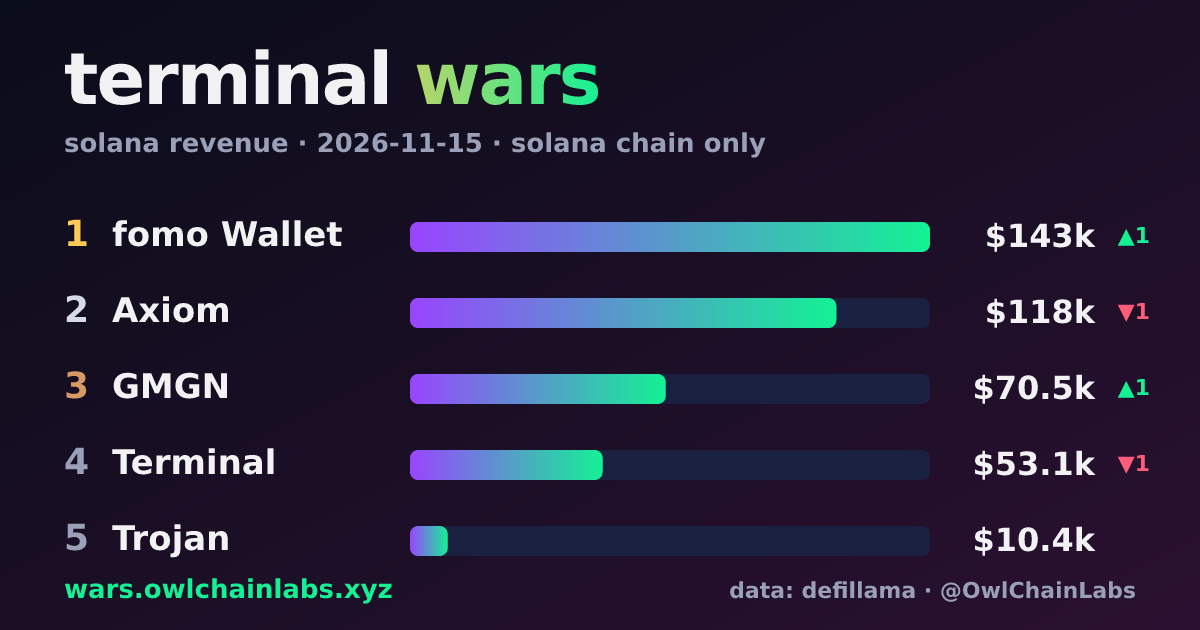
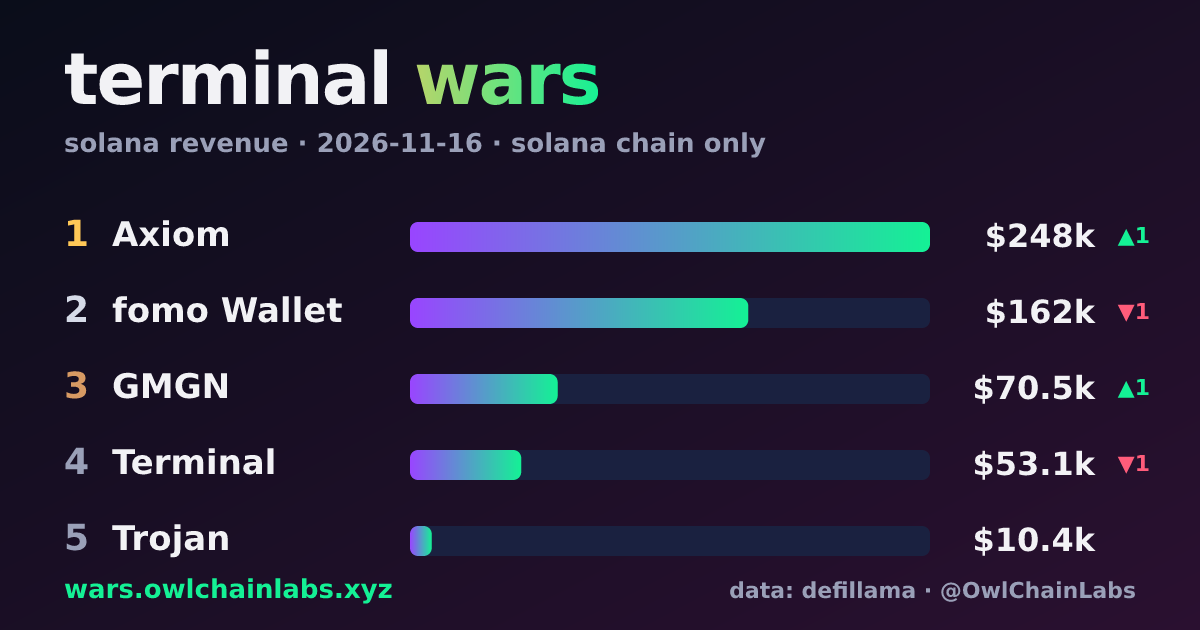
data: 2026-11-17

diff --git a/public/index.html b/public/index.html
@@ -9,8 +9,8 @@
   <meta property="og:title" content="terminal wars">
   <meta property="og:description" content="which solana trading terminal makes the most from you? daily leaderboard.">
   <meta property="og:url" content="https://wars.owlchainlabs.xyz">
-  <meta property="og:image" content="https://wars.owlchainlabs.xyz/og.png?v=2026-11-15">
-  <meta name="twitter:image" content="https://wars.owlchainlabs.xyz/og.png?v=2026-11-15">
+  <meta property="og:image" content="https://wars.owlchainlabs.xyz/og.png?v=2026-11-16">
+  <meta name="twitter:image" content="https://wars.owlchainlabs.xyz/og.png?v=2026-11-16">
   <meta name="twitter:card" content="summary_large_image">
   <meta name="twitter:site" content="@OwlChainLabs">
   <style>
